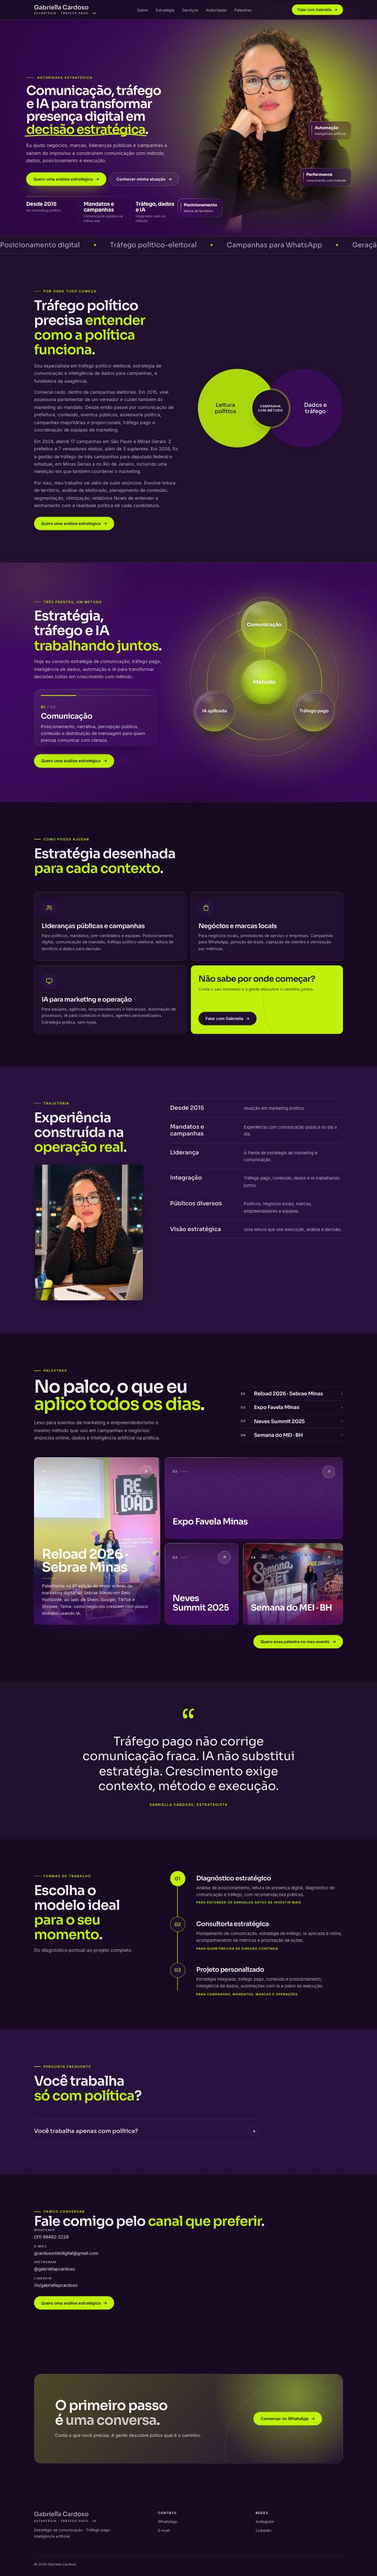
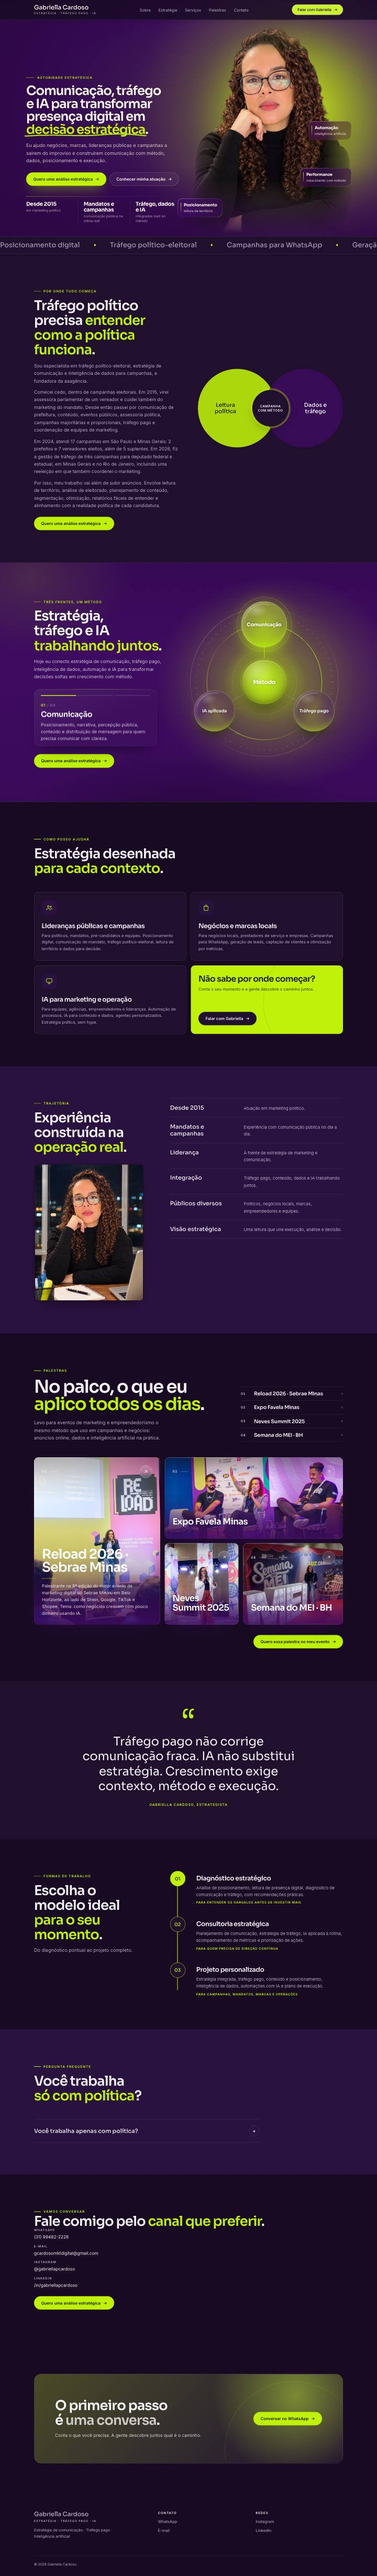
fix: devolver Contato ao menu do topo, com teste de regressão
O montador aceita só 5 itens de menu e descartava o 6º em silêncio; ao entrar
Palestras, o Contato saiu do menu. Saiu o menu da seção Autoridade.
Teste novo: site-no-ar/menu.regression-1.test.mjs. Publicado e conferido no domínio.

Changed region(s): [[0.4278, 0.5612, 0.9167, 0.6548], [0.1222, 0.2806, 0.3056, 0.3118], [0.7944, 0.0, 0.8861, 0.0312]]

diff --git a/site-no-ar/index.html b/site-no-ar/index.html
@@ -17,7 +17,7 @@
 <body>
 <header class="m-topo"><div class="m-dentro">
   <a class="m-marca" href="#">Gabriella Cardoso<small>Estratégia · Tráfego pago · IA</small></a>
-  <ul class="m-menu"><li><a href="#sobre">Sobre</a></li><li><a href="#estrategia">Estratégia</a></li><li><a href="#servicos">Serviços</a></li><li><a href="#autoridade">Autoridade</a></li><li><a href="#palestras">Palestras</a></li></ul>
+  <ul class="m-menu"><li><a href="#sobre">Sobre</a></li><li><a href="#estrategia">Estratégia</a></li><li><a href="#servicos">Serviços</a></li><li><a href="#palestras">Palestras</a></li><li><a href="#contato">Contato</a></li></ul>
   <div class="m-acoes-topo"><a class="m-botao pequeno" href="https://wa.me/5531994822228" target="_blank" rel="noopener">Falar com Gabriella</a></div>
 </div></header>
 

diff --git a/.claude/CLAUDE.md b/.claude/CLAUDE.md
@@ -295,6 +295,11 @@ prévia do link dentro do WhatsApp e do LinkedIn.
 4. Correção no celular, publicada no mesmo dia: a faixa que corre ficava parada em aparelho com
    "Reduzir movimento" (agora anda, mais devagar) e o círculo da seção "Sobre" alargava a página em
    22 px (agora 375 px exatos). Conferido no domínio com Chromium em 375 px; **não** num iPhone real.
+5. QA do site no ar (`/qa`, 2026-11-17): 2 defeitos. O menu do topo tinha perdido "Contato" quando
+   "Palestras" entrou (o montador aceita só 5 itens de menu e descartava o 6º em silêncio): corrigido
+   em `site-no-ar/site.json` (saiu "menu" da seção Autoridade) e **publicado no mesmo dia** (hash do HTML igual ao do domínio; menu com Sobre, Estratégia, Serviços, Palestras e Contato). O montador
+   da skill agora avisa quando descarta item de menu. Teste novo:
+   `node --test site-no-ar/menu.regression-1.test.mjs`. Relatório: `.gstack/qa-reports/` (fora do Git).
 
 Fontes: documento `Gabriella Cardoso - Carreira no marketing político.md` (Downloads), legendas de 10
 posts do Instagram dela (Reload, Neves Summit, Semana do MEI, Expo Favela) e as fotos de
@@ -312,11 +317,13 @@ Detalhes, lista de arquivos para publicar e cópias anteriores: `COMO-PUBLICAR.m
 - [ ] **~2026-11-17:** conferir no Search Console (Inspeção de URL) se o Google já rastreou o site novo.
 - [ ] Conferir a prévia do link no WhatsApp e no LinkedIn (tags e imagem no ar desde 2026-11-14; a aparência nos apps não foi vista).
 - [ ] Testar o site novo em celular de verdade. Em especial, num iPhone, a faixa que corre (corrigida em 2026-11-17, conferida só no Chromium simulado).
+- [ ] Links de texto do contato e do rodapé com 19 a 22 px de altura (pequenos para o toque; Baixa).
 - [ ] Ativar verificação em duas etapas na conta Vercel (só o dono faz).
 - [ ] `sitemap.xml` e `robots.txt`, se o site crescer.
 
 ### Resolvidas
 
+- [x] ~~Publicar a correção do menu (Contato)~~ — publicado em 2026-11-17 e conferido no domínio (HTTP 200, hash igual, menu com Contato)
 - [x] ~~Verificar e-mail após propagação DNS~~ — confirmado em 2026-06-25 (MX mx1/mx2.hostinger.com propagados via Vercel DNS)
 - [x] ~~Testar subdomínios do VPS~~ — confirmado em 2026-06-25 (n8n e demais resolvendo para `72.60.55.54`)
 - [x] ~~Links do Footer~~ — resolvido em 2026-06-25 (Instagram, LinkedIn, WhatsApp e E-mail preenchidos em `Footer.tsx`)

diff --git a/site-no-ar/COMO-PUBLICAR.md b/site-no-ar/COMO-PUBLICAR.md
@@ -119,6 +119,10 @@ fictícios (Acme Corp, Global Tech etc.). Se um dia voltar a ele, trocar ou tira
   escuro. Há uma regra no `css` do `site.json` que força o verde-limão. Medido em todos os botões
   (mínimo 11,6; o recomendado é 4,5).
 - **Foto em "Autoridade":** moldura vertical 4:5 para não cortar os olhos.
+- **Menu do topo: no máximo 5 itens** (2026-11-17). Hoje: Sobre, Estratégia, Serviços, Palestras e
+  Contato. A seção Autoridade ficou sem "menu" para abrir espaço. Antes, o 6º item era descartado
+  em silêncio (foi assim que o Contato sumiu); o montador agora avisa. Teste:
+  `node --test site-no-ar/menu.regression-1.test.mjs`, a partir da raiz do repositório.
 - **Faixa que corre (2026-11-17):** o kit parava a faixa quando o aparelho pede "Reduzir movimento"
   (Ajustes > Acessibilidade > Movimento). A pedido da Gabriella, a faixa anda nesse caso também, mais
   devagar (70 s por volta em vez de 38 s). Regra no `css` do `site.json`.
